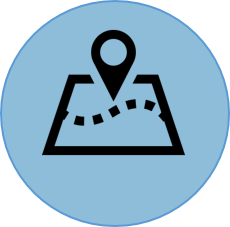
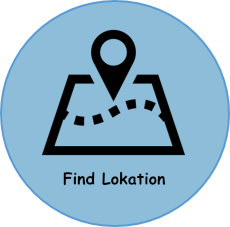
Knapper samt alertbox!

Changed region(s): [[0.2739, 0.7401, 0.7304, 0.8326]]

diff --git a/AppCode/ADLApp/ADLApp/ADLApp/Views/HomePage.xaml b/AppCode/ADLApp/ADLApp/ADLApp/Views/HomePage.xaml
@@ -7,8 +7,8 @@
              Title="ADL">
   <ScrollView>
     <StackLayout>
-      <Button x:Name="ScanButton" Button.Image="scan_qr.png" Text="Scan qr kode" Clicked="OnScanButtonClicked"></Button>
-      <Button Button.Image="find_qr.png" Text="Find qr kode" Clicked="OnClicked"></Button>
+      <Button x:Name="ScanButton" Button.Image="scan_qr.png" Text="" Clicked="OnScanButtonClicked"></Button>
+      <Button Button.Image="find_qr.png" Text="" Clicked="OnClicked"></Button>
     </StackLayout>
   </ScrollView>
 

diff --git a/AppCode/ADLApp/ADLApp/ADLApp/Views/HomePage.xaml.cs b/AppCode/ADLApp/ADLApp/ADLApp/Views/HomePage.xaml.cs
@@ -17,7 +17,7 @@ namespace ADLApp.Views
         }
         private async void OnScanButtonClicked(object sender, EventArgs e)
         {
-            ScanButton.Text = "Scan qr kode";
+           // ScanButton.Text = "Scan qr kode";
             ScanButton.IsEnabled = false;
             string s = await qrScanner.ScanAndGetOutputString();
             if (s != "")
@@ -37,8 +37,9 @@ namespace ADLApp.Views
                     }
                 }
                 else
-                {
-                    ScanButton.Text += ".. Er det en ADL qr kode?";
+                {	
+					DisplayAlert("Fejl ved indlæsning af opgave", "Er det en ADL qr kode=", "OK");
+                  //  ScanButton.Text += ".. Er det en ADL qr kode?";
                 }
             }
             ScanButton.IsEnabled = true;
